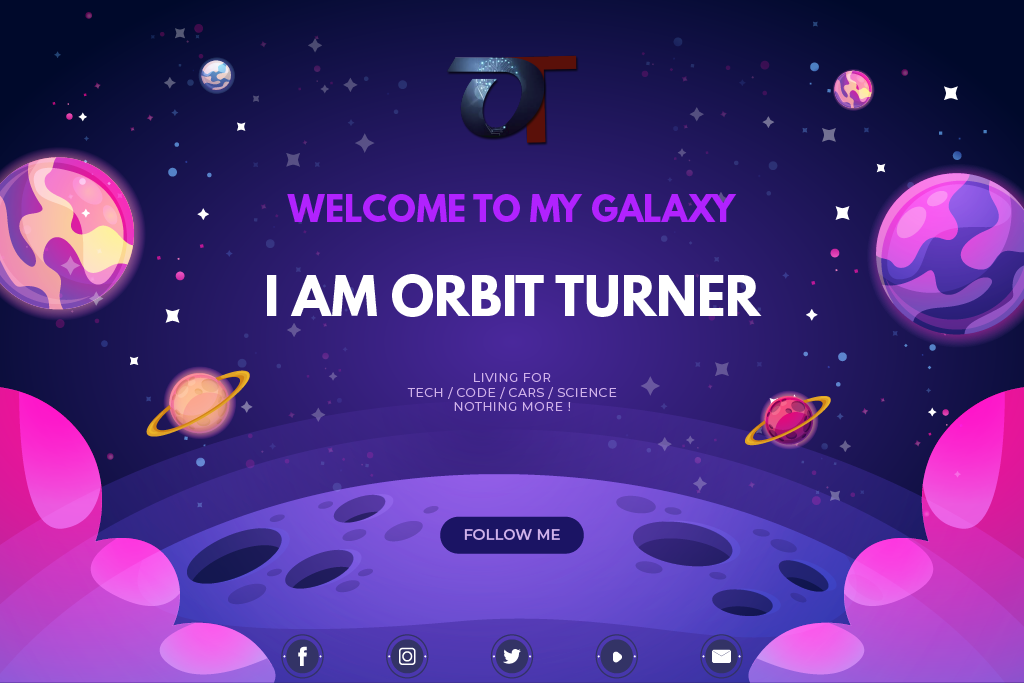
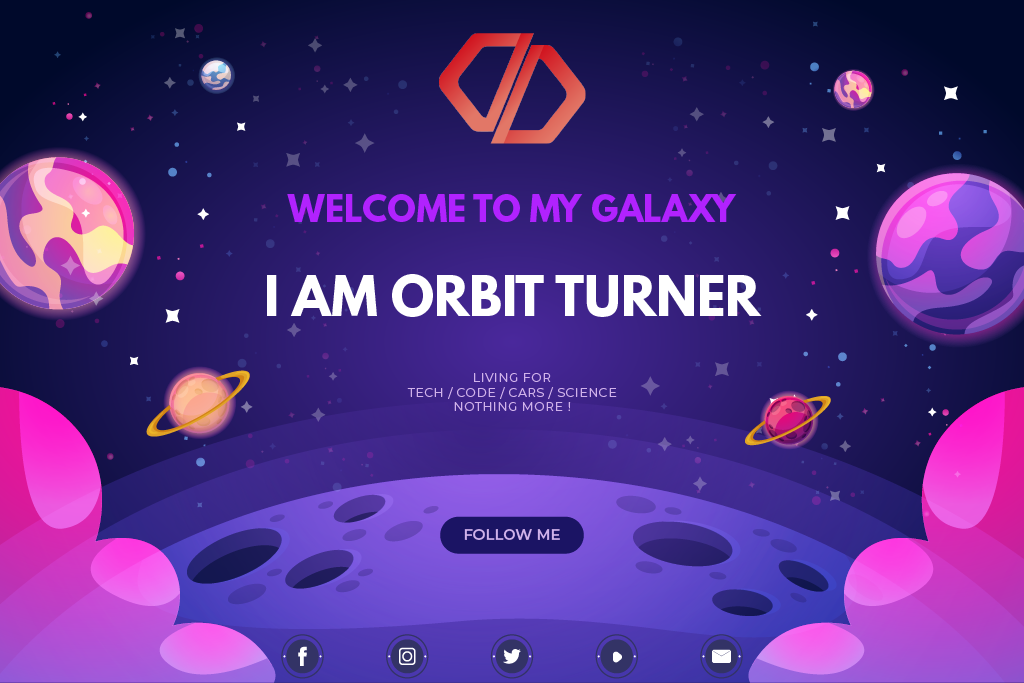
Revamped

Changed region(s): [[0.4062, 0.0307, 0.5938, 0.2152]]

diff --git a/README.md b/README.md
@@ -100,6 +100,6 @@ Above all, I am passionate about technology, science and art, but also a writer 
 ______________________________________________________
 **❤ MADE WITH LOVE ❤**
 
-![Image of OT](https://github.com/orbitturner/challenger/blob/master/images/orbitturner1.png?raw=true)
+![Image of OT](./LOGO-OT)
 
 <img src="https://github.com/orbitturner/challenger/blob/master/images/OrbitTurner_Gaming_GitHubBadge.png?raw=true" align="right" />
